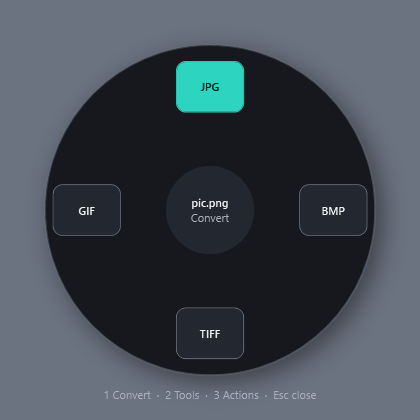
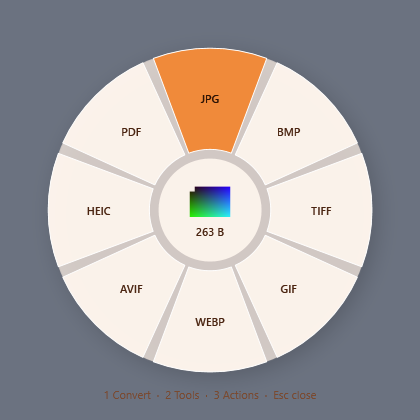
build: S01 pie-wedge wheel, thumbnail and size in the centre

diff --git a/app/DropWheel/Theme.xaml b/app/DropWheel/Theme.xaml
@@ -24,19 +24,19 @@
   <SolidColorBrush x:Key="Success" Color="{StaticResource SuccessColor}"/>
   <Color x:Key="WarningColor">#8a5a00</Color>
   <SolidColorBrush x:Key="Warning" Color="{StaticResource WarningColor}"/>
-  <Color x:Key="OverlayBgColor">#16181d</Color>
+  <Color x:Key="OverlayBgColor">#b8fff1e6</Color>
   <SolidColorBrush x:Key="OverlayBg" Color="{StaticResource OverlayBgColor}"/>
-  <Color x:Key="OverlaySurfaceColor">#232730</Color>
+  <Color x:Key="OverlaySurfaceColor">#e6fff6ee</Color>
   <SolidColorBrush x:Key="OverlaySurface" Color="{StaticResource OverlaySurfaceColor}"/>
-  <Color x:Key="OverlayBorderColor">#6b7380</Color>
+  <Color x:Key="OverlayBorderColor">#ffffffff</Color>
   <SolidColorBrush x:Key="OverlayBorder" Color="{StaticResource OverlayBorderColor}"/>
-  <Color x:Key="OverlayTextColor">#f3f4f6</Color>
+  <Color x:Key="OverlayTextColor">#4a2410</Color>
   <SolidColorBrush x:Key="OverlayText" Color="{StaticResource OverlayTextColor}"/>
-  <Color x:Key="OverlayTextMutedColor">#a9b0bb</Color>
+  <Color x:Key="OverlayTextMutedColor">#7a4a30</Color>
   <SolidColorBrush x:Key="OverlayTextMuted" Color="{StaticResource OverlayTextMutedColor}"/>
-  <Color x:Key="OverlayAccentColor">#2dd4bf</Color>
+  <Color x:Key="OverlayAccentColor">#f08a3a</Color>
   <SolidColorBrush x:Key="OverlayAccent" Color="{StaticResource OverlayAccentColor}"/>
-  <Color x:Key="OnOverlayAccentColor">#04201c</Color>
+  <Color x:Key="OnOverlayAccentColor">#2b1204</Color>
   <SolidColorBrush x:Key="OnOverlayAccent" Color="{StaticResource OnOverlayAccentColor}"/>
   <CornerRadius x:Key="RadiusSm">6</CornerRadius>
   <CornerRadius x:Key="RadiusMd">10</CornerRadius>
@@ -57,7 +57,7 @@
   <Thickness x:Key="Space6">32</Thickness>
   <Thickness x:Key="Space7">48</Thickness>
   <sys:Double x:Key="WheelDiameter">360</sys:Double>
-  <sys:Double x:Key="WheelHole">96</sys:Double>
+  <sys:Double x:Key="WheelHole">112</sys:Double>
   <sys:Double x:Key="SlotMin">56</sys:Double>
   <sys:Double x:Key="SettingsWidth">560</sys:Double>
   <sys:Double x:Key="ToastWidth">320</sys:Double>

diff --git a/app/DropWheel/WheelWindow.xaml b/app/DropWheel/WheelWindow.xaml
@@ -6,16 +6,16 @@
         FontFamily="{StaticResource FontSans}" FontSize="{StaticResource TextXs}">
   <Grid x:Name="Root" RenderTransformOrigin="0.5,0.5">
     <Grid.RenderTransform><ScaleTransform x:Name="Scale" ScaleX="1" ScaleY="1"/></Grid.RenderTransform>
-    <Ellipse Width="{StaticResource WheelDiameter}" Height="{StaticResource WheelDiameter}"
-             Fill="{StaticResource OverlayBg}" Stroke="{StaticResource OverlayBorder}" StrokeThickness="1">
-      <Ellipse.Effect><DropShadowEffect BlurRadius="40" ShadowDepth="12" Opacity="0.45"/></Ellipse.Effect>
+    <Ellipse Width="352" Height="352" Fill="{StaticResource OverlayBg}">
+      <Ellipse.Effect><DropShadowEffect BlurRadius="36" ShadowDepth="8" Opacity="0.25"/></Ellipse.Effect>
     </Ellipse>
     <Canvas x:Name="Ring" Width="{StaticResource WheelDiameter}" Height="{StaticResource WheelDiameter}"
             KeyboardNavigation.DirectionalNavigation="Cycle" KeyboardNavigation.TabNavigation="Cycle"/>
-    <Border x:Name="Hole" Width="{StaticResource WheelHole}" Height="{StaticResource WheelHole}" CornerRadius="48"
+    <Border x:Name="Hole" Width="{StaticResource WheelHole}" Height="{StaticResource WheelHole}" CornerRadius="56"
             Background="{StaticResource OverlaySurface}" AllowDrop="True" Focusable="True"
             AutomationProperties.Name="Centre">
-      <StackPanel VerticalAlignment="Center" Margin="8">
+      <StackPanel VerticalAlignment="Center" Margin="6">
+        <Image x:Name="HoleImage" Width="44" Height="44" Margin="0,0,0,2" RenderOptions.BitmapScalingMode="HighQuality" AutomationProperties.Name="File preview"/>
         <TextBlock x:Name="HoleTitle" Foreground="{StaticResource OverlayText}" TextAlignment="Center" TextTrimming="CharacterEllipsis" FontWeight="SemiBold"/>
         <TextBlock x:Name="HoleSub" Foreground="{StaticResource OverlayTextMuted}" TextAlignment="Center" TextTrimming="CharacterEllipsis"/>
       </StackPanel>

diff --git a/app/DropWheel/WheelWindow.xaml.cs b/app/DropWheel/WheelWindow.xaml.cs
@@ -19,8 +19,8 @@ namespace DropWheel;
 /// </summary>
 public partial class WheelWindow : Window
 {
-    const double Size = 420, Radius = 134, SlotW = 74, SlotH = 56;
-    const int MaxSlots = 12;
+    const double Size = 420, Outer = 176, Inner = 66;
+    const int MaxSlots = 8; // a ring of 8 wedges reads at a glance; more collapse into groups
 
     readonly IReadOnlyList<string> _paths;
     readonly bool _keyboard;
@@ -84,8 +84,9 @@ public partial class WheelWindow : Window
     {
         Ring.Children.Clear();
         var ops = Registry.For(_paths, KindOf(_mode));
-        HoleTitle.Text = _paths.Count == 1 ? Path.GetFileName(_paths[0].TrimEnd('\\', '/')) : $"{_paths.Count} files";
-        HoleSub.Text = _group ?? _mode.ToString();
+        SetCentre();
+        HoleSub.Text = _group ?? (_mode == Mode.Convert ? "" : _mode.ToString());
+        HoleSub.Visibility = HoleSub.Text.Length > 0 ? Visibility.Visible : Visibility.Collapsed;
 
         var entries = new List<(string label, string tip, Action<IReadOnlyList<string>> run, bool isGroup)>();
         if (_group != null)
@@ -103,40 +104,89 @@ public partial class WheelWindow : Window
                 entries.Add((op.Label, op.Detail, files => Choose(op, files), false));
             }
 
-        if (entries.Count == 0) { HoleSub.Text = "Nothing for this file"; return; }
+        if (entries.Count == 0) { HoleSub.Text = "Nothing for this file"; HoleSub.Visibility = Visibility.Visible; return; }
 
         for (int i = 0; i < entries.Count; i++)
         {
             var (label, tip, run, isGroup) = entries[i];
-            var slot = MakeSlot(label, tip, run, isGroup);
-            double ang = i * 2 * Math.PI / entries.Count - Math.PI / 2, c = Ring.Width / 2;
-            Canvas.SetLeft(slot, c + Math.Cos(ang) * Radius - SlotW / 2);
-            Canvas.SetTop(slot, c + Math.Sin(ang) * Radius - SlotH / 2);
-            Ring.Children.Add(slot);
+            double ang = i * 2 * Math.PI / entries.Count - Math.PI / 2;
+            MakeSlot(label, tip, run, isGroup, ang, Math.PI / entries.Count);
         }
     }
 
-    Border MakeSlot(string label, string tip, Action<IReadOnlyList<string>> run, bool isGroup)
+    /// <summary>Thumbnail for pictures, the file's own icon for everything else, plus the size ("2.2 MB").</summary>
+    void SetCentre()
     {
-        var text = new TextBlock
+        HoleTitle.Text = Describe(_paths);
+        HoleTitle.ToolTip = string.Join("\n", _paths.Select(p => Path.GetFileName(p.TrimEnd('\\', '/'))));
+        HoleImage.Source = _paths.Count == 1 ? Thumb(_paths[0]) : null;
+        HoleImage.Visibility = HoleImage.Source != null ? Visibility.Visible : Visibility.Collapsed;
+    }
+
+    static string Describe(IReadOnlyList<string> paths)
+    {
+        long total = 0; bool folder = false;
+        foreach (var p in paths)
+            try { if (Directory.Exists(p)) folder = true; else total += new FileInfo(p).Length; } catch { }
+        var count = paths.Count > 1 ? $"{paths.Count} files" : "";
+        var size = folder && total == 0 ? "Folder" : total >= 1 << 20 ? $"{total / 1048576.0:0.#} MB" : total >= 1 << 10 ? $"{total / 1024.0:0.#} KB" : $"{total} B";
+        return count.Length > 0 ? $"{count}\n{size}" : size;
+    }
+
+    static ImageSource? Thumb(string path)
+    {
+        try
         {
-            Text = label, FontWeight = FontWeights.SemiBold, TextAlignment = TextAlignment.Center,
-            TextTrimming = TextTrimming.CharacterEllipsis, VerticalAlignment = VerticalAlignment.Center, Margin = new Thickness(4, 0, 4, 0),
-        };
-        var slot = new Border
+            if (Registry.Ext(path) is "jpg" or "jpeg" or "png" or "bmp" or "gif" or "tif" or "tiff")
+            {
+                var b = new System.Windows.Media.Imaging.BitmapImage();
+                b.BeginInit(); b.UriSource = new Uri(path); b.DecodePixelWidth = 96; b.CacheOption = System.Windows.Media.Imaging.BitmapCacheOption.OnLoad; b.EndInit(); b.Freeze();
+                return b;
+            }
+            if (Directory.Exists(path)) return null;
+            using var icon = System.Drawing.Icon.ExtractAssociatedIcon(path);
+            return icon == null ? null : Imaging.CreateBitmapSourceFromHIcon(icon.Handle, Int32Rect.Empty, System.Windows.Media.Imaging.BitmapSizeOptions.FromEmptyOptions());
+        }
+        catch { return null; }
+    }
+
+    /// <summary>One pie wedge of the ring, centred on angle mid with half-width half. Its label sits on top and ignores the mouse, so the wedge is the drop target.</summary>
+    System.Windows.Shapes.Path MakeSlot(string label, string tip, Action<IReadOnlyList<string>> run, bool isGroup, double mid, double half)
+    {
+        double c = Ring.Width / 2, gap = 0.035; // radians of empty space between wedges
+        double w = Math.Max(0.05, half - gap);
+        Point P(double r, double a) => new(c + r * Math.Cos(a), c + r * Math.Sin(a));
+        var g = new StreamGeometry();
+        using (var ctx = g.Open())
         {
-            Width = SlotW, Height = SlotH, CornerRadius = (CornerRadius)FindResource("RadiusMd"), BorderThickness = new Thickness(1),
-            Background = Res("OverlaySurface"), BorderBrush = Res("OverlayBorder"), Child = text,
+            bool big = w * 2 > Math.PI;
+            ctx.BeginFigure(P(Outer, mid - w), true, true);
+            ctx.ArcTo(P(Outer, mid + w), new Size(Outer, Outer), 0, big, SweepDirection.Clockwise, true, false);
+            ctx.LineTo(P(Inner, mid + w), true, false);
+            ctx.ArcTo(P(Inner, mid - w), new Size(Inner, Inner), 0, big, SweepDirection.Counterclockwise, true, false);
+        }
+        g.Freeze();
+        var slot = new System.Windows.Shapes.Path
+        {
+            Data = g, StrokeThickness = 1, Fill = Res("OverlaySurface"), Stroke = Res("OverlayBorder"), StrokeLineJoin = PenLineJoin.Round,
             AllowDrop = true, Focusable = true, ToolTip = tip, FocusVisualStyle = null, Cursor = Cursors.Hand,
         };
+        Ring.Children.Add(slot); // before the label, so the label draws on top
+        var text = new TextBlock
+        {
+            Text = label, FontWeight = FontWeights.SemiBold, TextAlignment = TextAlignment.Center, IsHitTestVisible = false,
+            Width = 90, Foreground = Res("OverlayText"),
+        };
+        text.Measure(new Size(90, 40));
+        var lp = P((Outer + Inner) / 2, mid);
+        Canvas.SetLeft(text, lp.X - 45); Canvas.SetTop(text, lp.Y - text.DesiredSize.Height / 2);
+        Ring.Children.Add(text);
         System.Windows.Automation.AutomationProperties.SetName(slot, tip.Length > 0 ? $"{label}: {tip}" : label);
         void Hover(bool on)
         {
-            slot.Background = Res(on ? "OverlayAccent" : "OverlaySurface");
-            slot.BorderBrush = Res(on ? "OverlayAccent" : "OverlayBorder");
+            slot.Fill = Res(on ? "OverlayAccent" : "OverlaySurface");
             text.Foreground = Res(on ? "OnOverlayAccent" : "OverlayText");
         }
-        Hover(false);
         slot.MouseEnter += (_, _) => Hover(true);
         slot.MouseLeave += (_, _) => { if (!slot.IsKeyboardFocused) Hover(false); };
         slot.GotKeyboardFocus += (_, _) => Hover(true);

diff --git a/replica/build-log.md b/replica/build-log.md
@@ -35,3 +35,6 @@ Self-test: 42 checks pass (2 redaction checks added plus a visual one).
 Installed ffmpeg (Gyan.FFmpeg) and ImageMagick 7.1.2 via winget. Added `EngineChecks` to the self-test: 3 ImageMagick outputs, 14 ffmpeg outputs, all pass; whole self-test passes. Checks confirm the output exists and is non-empty (WebP also checks its header, VTT its first line), not that it plays.
 **Bug found by installing the engines (S3, fixed):** with ImageMagick present, locked, missing and corrupt images fell back to magick and showed its raw error text instead of the clear message. The fallback now only runs for HEIC/HEIF/WebP/AVIF input.
 Still not run: pandoc, LibreOffice, Poppler, Ghostscript paths.
+
+## Wheel look pass (2026-10-18)
+S01 now a ring of 8 pie wedges with gaps, labels only, centre shows thumbnail (or file icon) and size, light translucent warm palette (own colours). More than 8 options collapse into groups. Screenshot: clone-screens/S01.png. Not yet seen live over Explorer.
